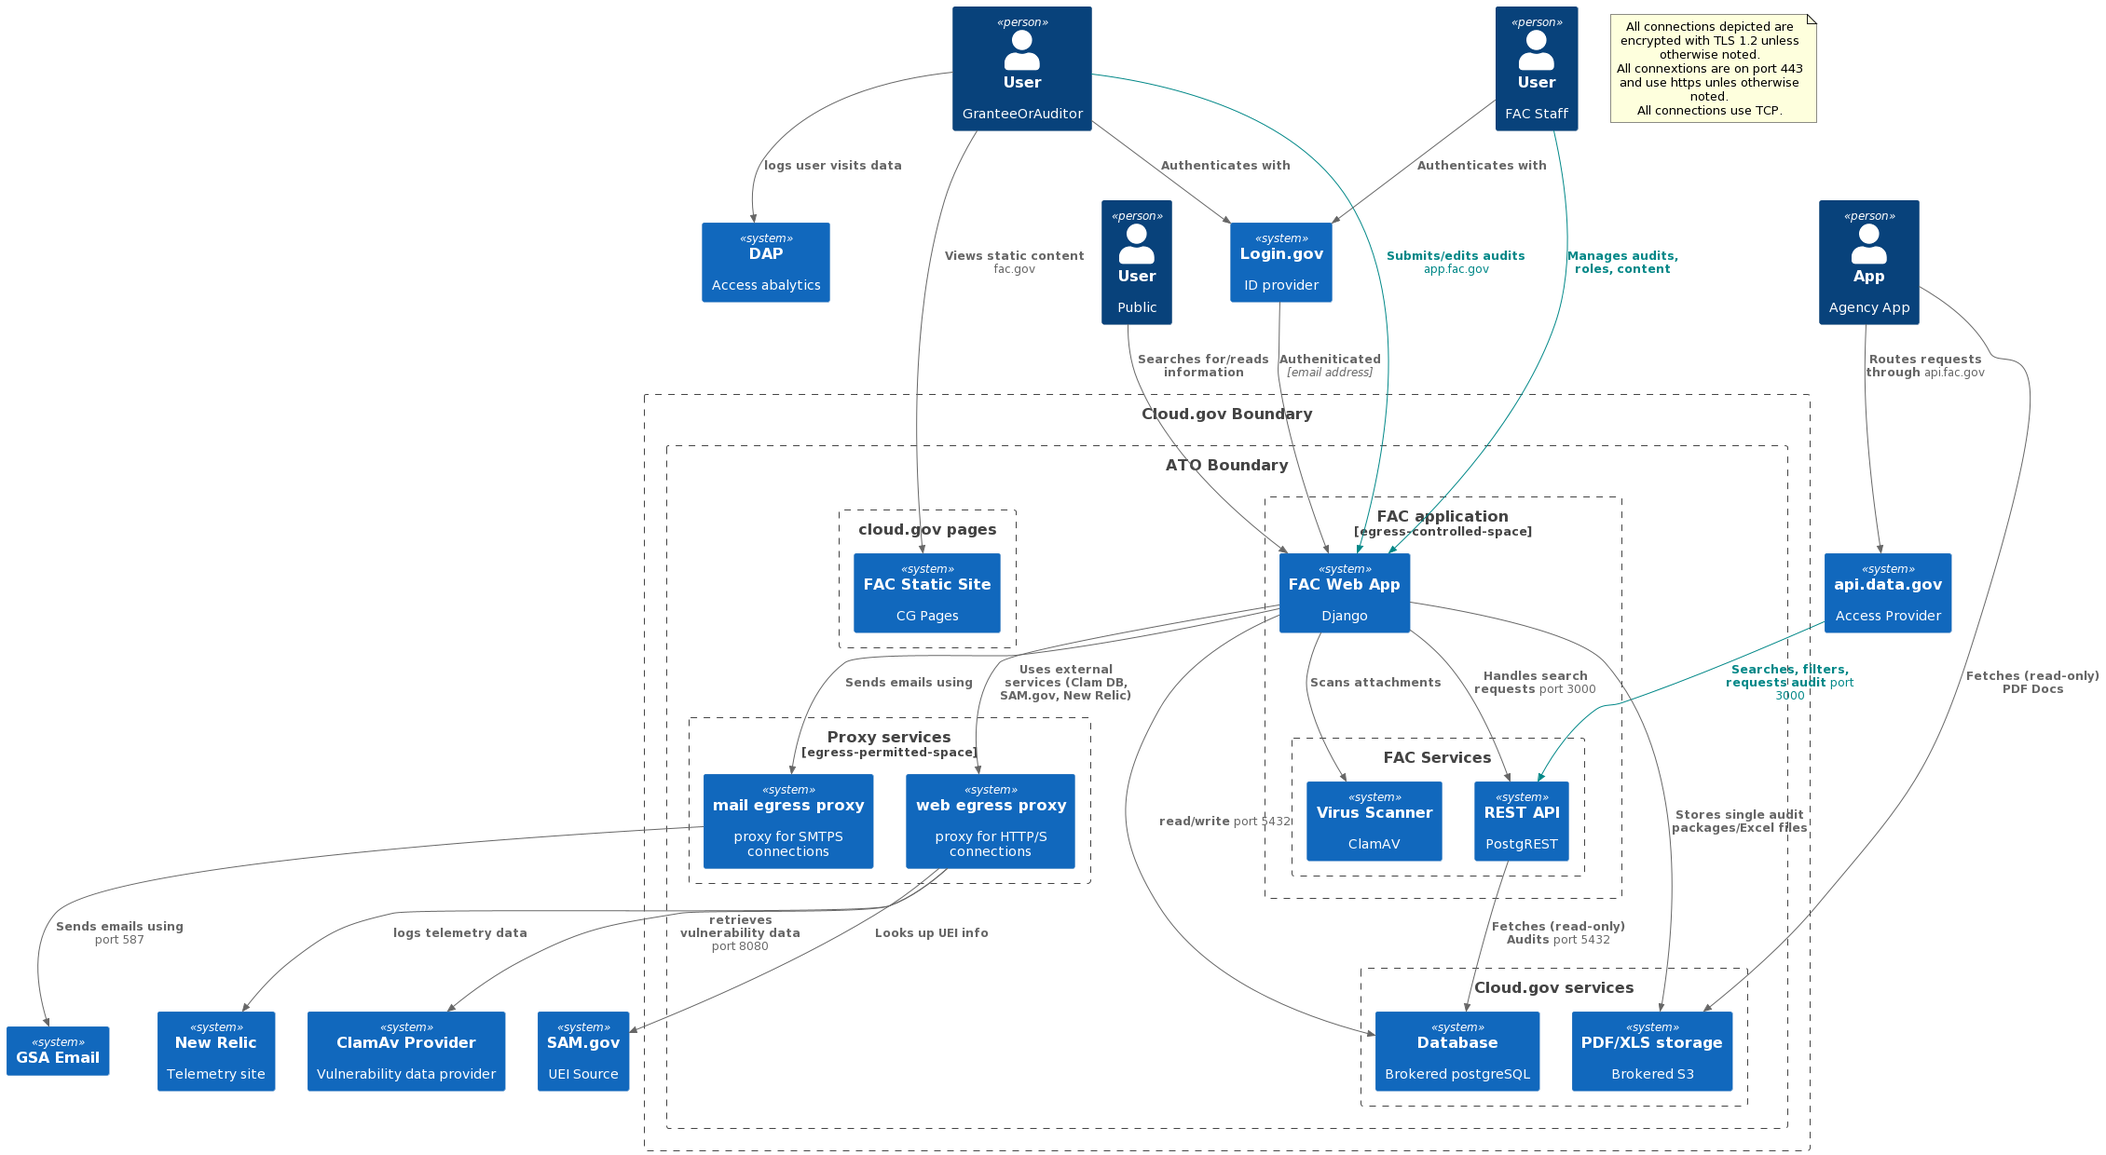
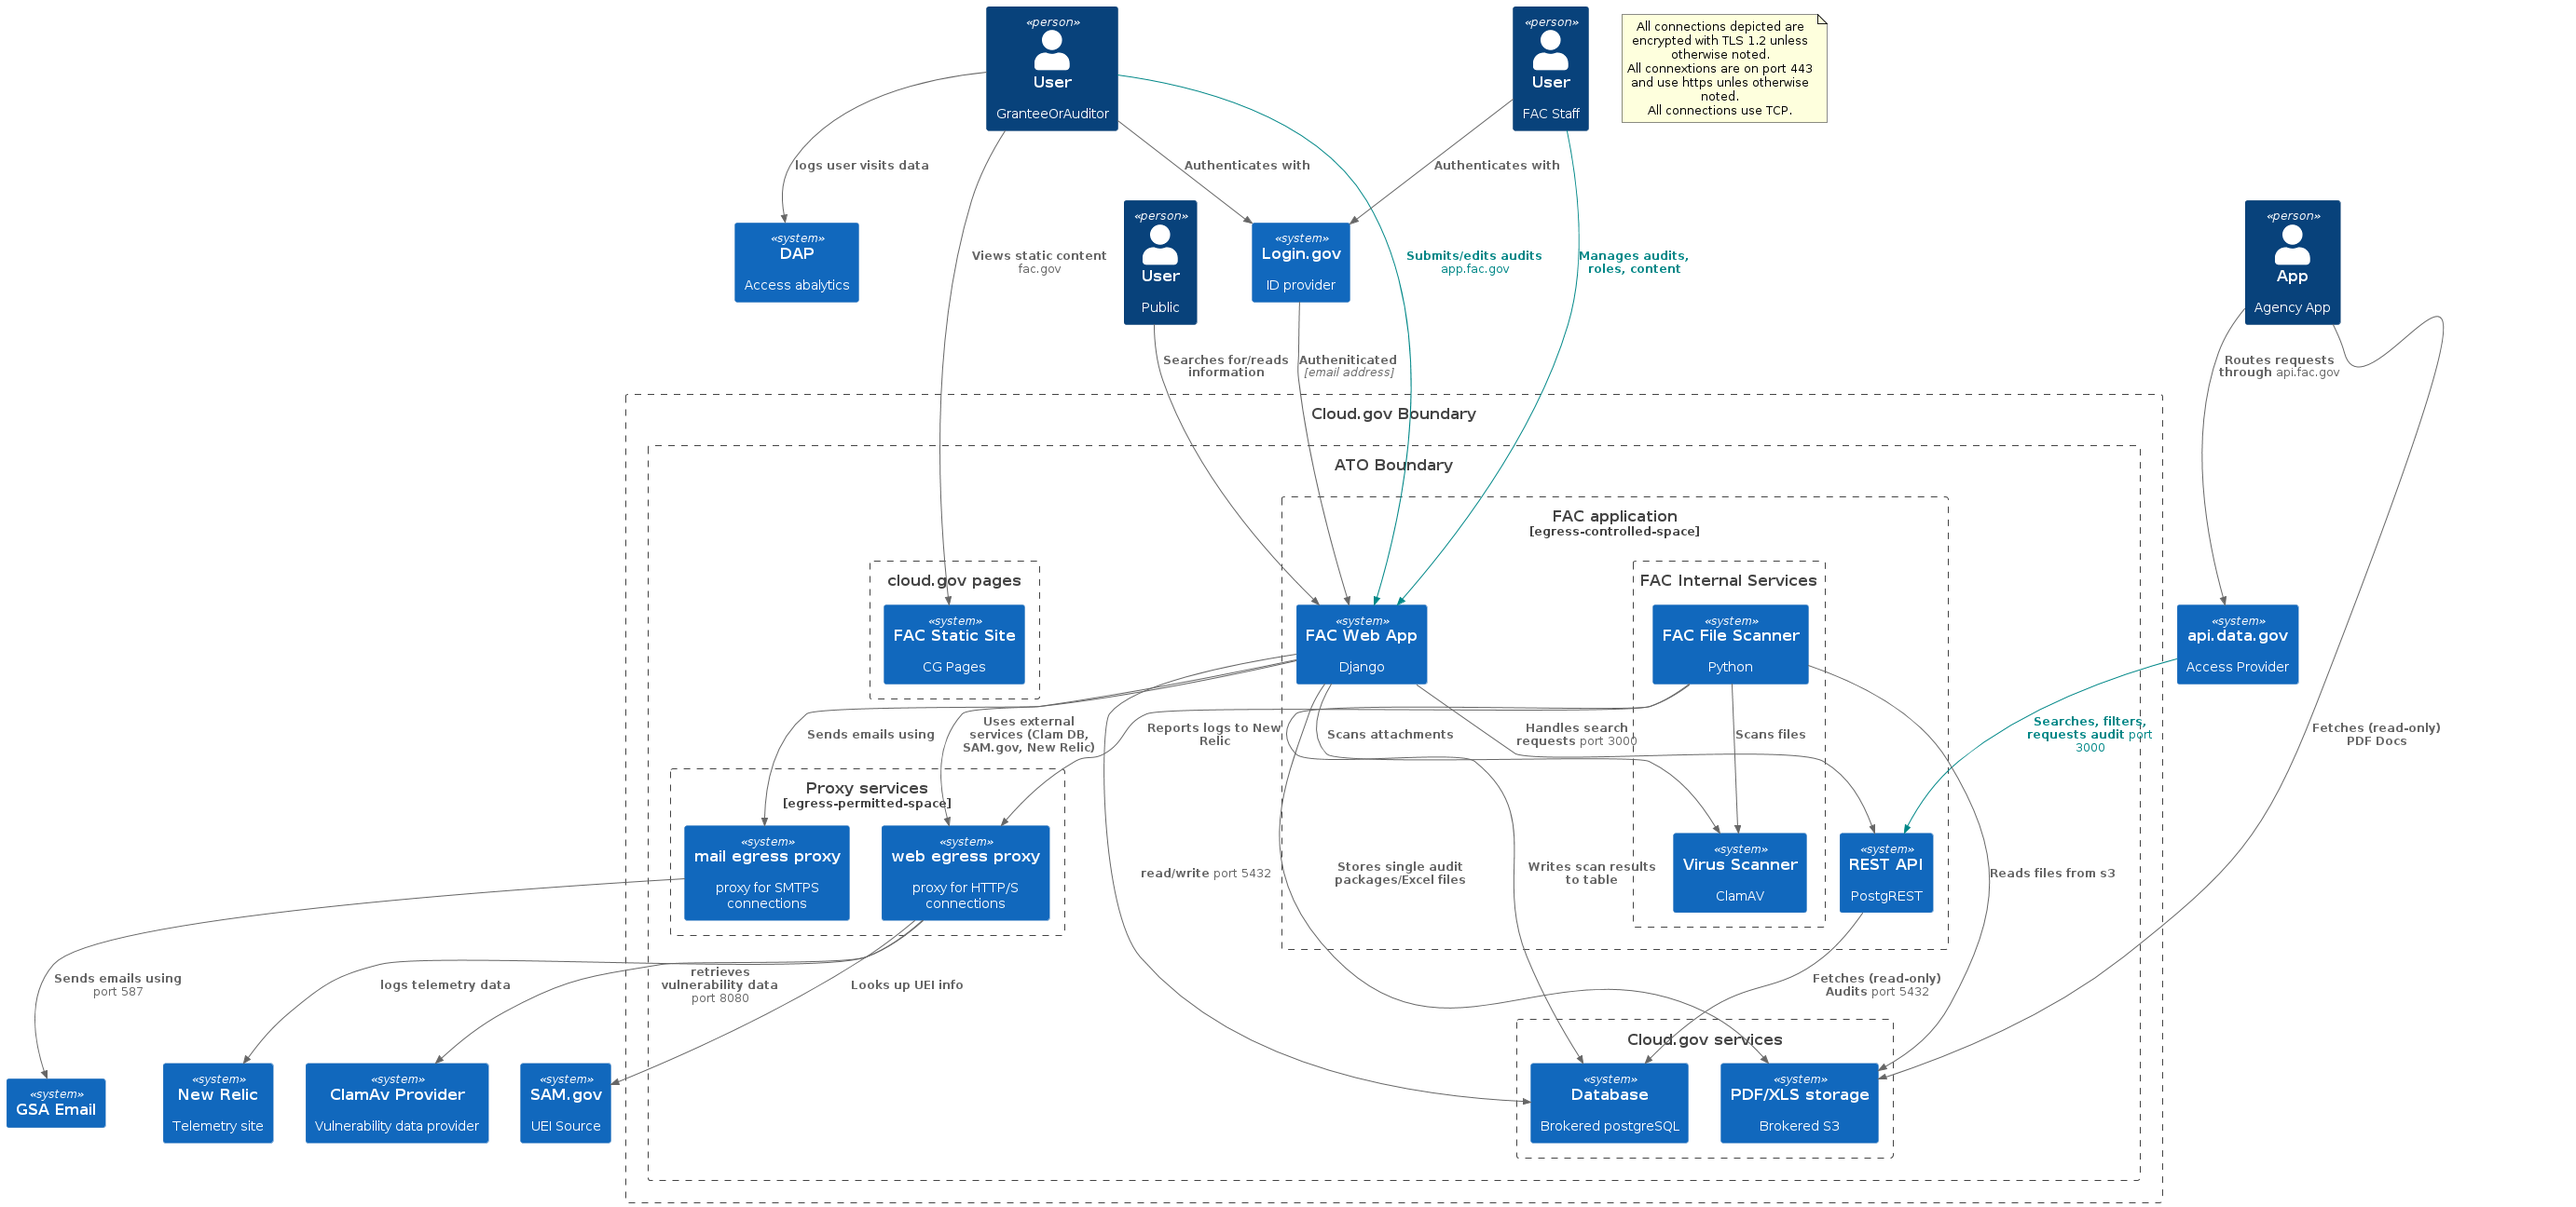
Update diagram

diff --git a/docs/architecture/diagrams/Application/fac_system_context_unified.md b/docs/architecture/diagrams/Application/fac_system_context_unified.md
@@ -1,7 +1,7 @@
 FAC System Cloud boundary view
 ![FAC.gov  Cloud ATO boundary view]
 ```plantuml
-@startuml Context Diagram
+@startuml
 !include https://raw.githubusercontent.com/plantuml-stdlib/C4-PlantUML/master/C4_Container.puml
 
 Person(User, "User", "GranteeOrAuditor")
@@ -10,19 +10,20 @@ Person(Staff, "User", "FAC Staff")
 Person(AgencyApp, "App", "Agency App")
 
 note as ConnectionNote
-All connections depicted are encrypted with TLS 1.2 unless otherwise noted. 
+All connections depicted are encrypted with TLS 1.2 unless otherwise noted.
 All connextions are on port 443 and use https unles otherwise noted.
-All connections use TCP. 
+All connections use TCP.
 end note
 
 
 Boundary(cloudgov, "Cloud.gov Boundary") {
     Boundary(atob, "ATO Boundary") {
         Boundary(backend, "FAC application", "egress-controlled-space") {
-            System(django, "FAC Web App", "Django") 
-            Boundary(services, "FAC Services") {
-                System(api, "REST API ", "PostgREST")
+            System(api, "REST API ", "PostgREST")
+            System(django, "FAC Web App", "Django")
+            Boundary(services, "FAC Internal Services") {
                 System(scan, "Virus Scanner", "ClamAV")
+                System(scanner, "FAC File Scanner", "Python")
             }
         }
         Boundary(proxy, "Proxy services", "egress-permitted-space"){
@@ -30,7 +31,7 @@ Boundary(cloudgov, "Cloud.gov Boundary") {
             System(mail_proxy, "mail egress proxy", "proxy for SMTPS connections")
         }
         Boundary(pages, "cloud.gov pages") {
-            System(static, "FAC Static Site", "CG Pages") 
+            System(static, "FAC Static Site", "CG Pages")
         }
         Boundary(cloudgov-services,"Cloud.gov services") {
             System(db, "Database", "Brokered postgreSQL")
@@ -77,6 +78,9 @@ Rel(django, scan, "Scans attachments")
 Rel(django, db, "read/write") port 5432
 Rel(django, s3, "Stores single audit packages/Excel files")
 Rel(django, api, "Handles search requests") port 3000
-
+Rel(scanner, scan, "Scans files")
+Rel(scanner, s3, "Reads files from s3")
+Rel(scanner, db, "Writes scan results to table")
+Rel(scanner, https_proxy, "Reports logs to New Relic")
 @enduml
 ```
